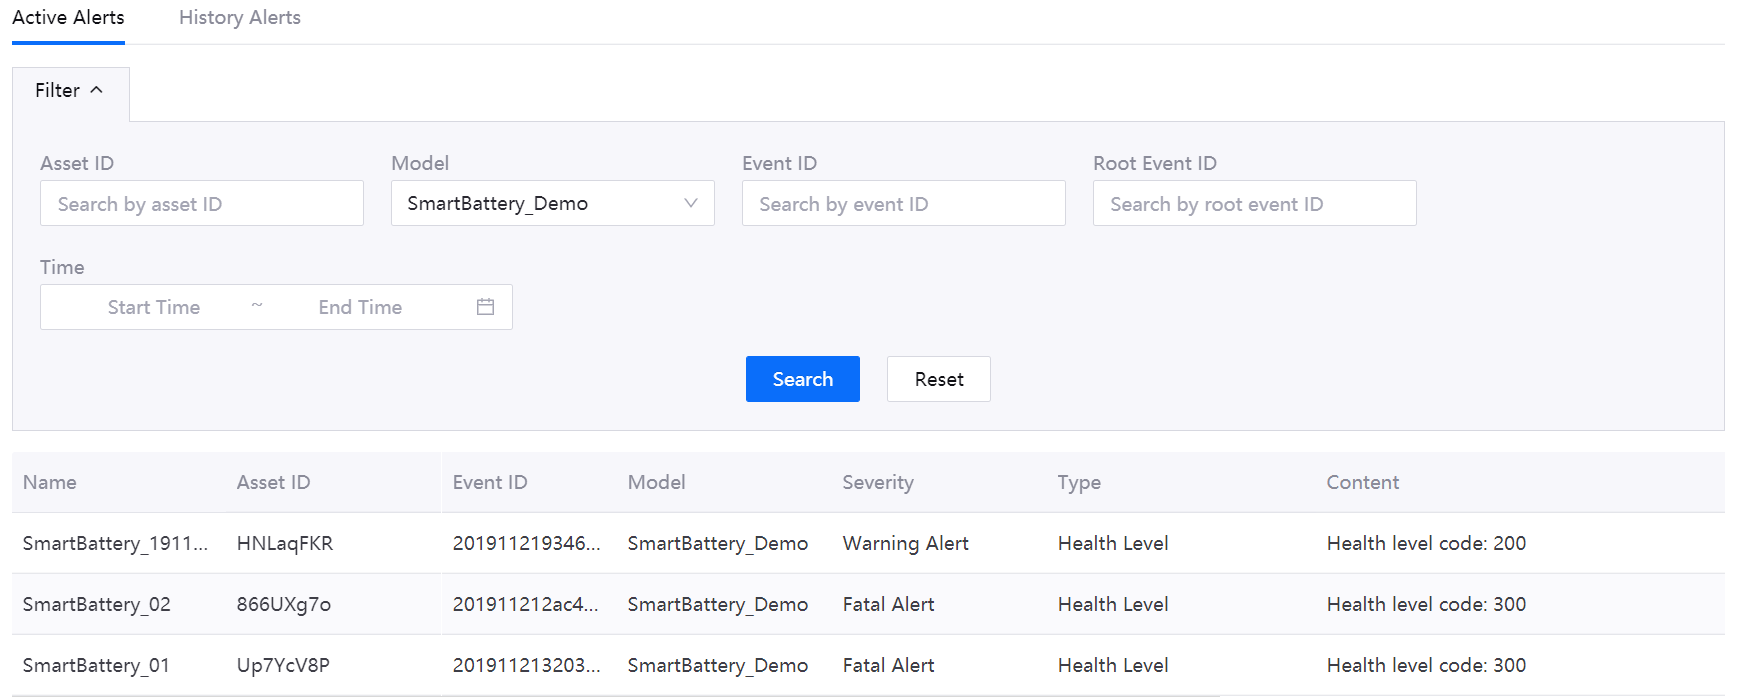
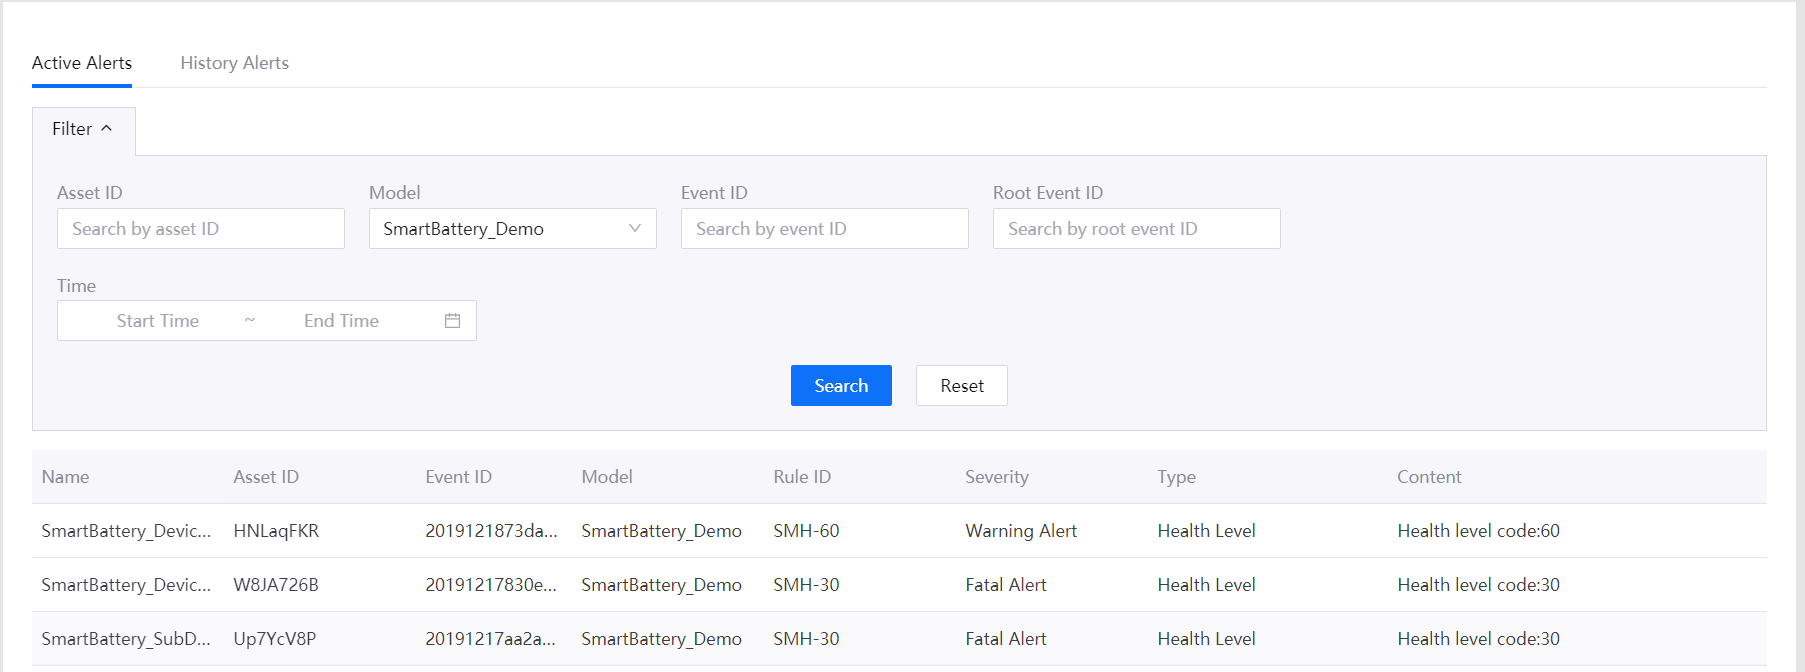
Update image

diff --git a/Day3_Data_Management/lab_tutorial/303-4_monitoring_alerts.md b/Day3_Data_Management/lab_tutorial/303-4_monitoring_alerts.md
@@ -10,9 +10,9 @@ In [Lab 3](303-3 calculating_health_level.md), we defined 3 health levels of the
 
 | Health Level Code | Alert Severity ID | Description                        |
 | ----------------- | ----------------- | ---------------------------------- |
-| 100               | Normal_Alert      | The battery is healthy             |
-| 200               | Warning_Alert     | The battery is unhealthy           |
-| 300               | Fatal_Alert       | The battery is extremely unhealthy |
+| 90                | Normal_Alert      | The battery is healthy             |
+| 60                | Warning_Alert     | The battery is unhealthy           |
+| 30                | Fatal_Alert       | The battery is extremely unhealthy |
 
 Take the following steps to create the alert severity:
 
@@ -84,7 +84,7 @@ Take the following steps to create alert triggering rule for the **Warning_Alert
 
    - **Rule ID**
 
-     Enter an ID for the alert rule, for example, `SMH-200`.
+     Enter an ID for the alert rule, for example, `SMH-60`.
 
    - **Select Model**
 
@@ -92,7 +92,7 @@ Take the following steps to create alert triggering rule for the **Warning_Alert
 
    - **Condition**
 
-     Specify the triggering condition for the alert and enter the corresponding value or value scope for the condition. Based on the business scenario, for the **Warning_Alert** severity level, the conditions are `health_level>=200` and `health_level<300`.
+     Specify the triggering condition for the alert and enter the corresponding value or value scope for the condition. Based on the business scenario, for the **Warning_Alert** severity level, the conditions are `health_level>=30` and `health_level<60`.
 
    - **Scope**
 
@@ -126,7 +126,7 @@ Take the following steps to create alert triggering rule for the **Fatal_Alert**
 
    - **Rule ID**
 
-     Enter an ID for the alert rule, for example, `SMH-300`.
+     Enter an ID for the alert rule, for example, `SMH-30`.
 
    - **Select Model**
 
@@ -134,7 +134,7 @@ Take the following steps to create alert triggering rule for the **Fatal_Alert**
 
    - **Condition**
 
-     Specify the triggering condition for the alert and enter the corresponding value or value scope for the condition. Based on the business scenario, for the **Fatal_Alert** severity level, the condition is `health_level>=300`.
+     Specify the triggering condition for the alert and enter the corresponding value or value scope for the condition. Based on the business scenario, for the **Fatal_Alert** severity level, the condition is `health_level<=30`.
 
    - **Scope**
 
@@ -184,10 +184,10 @@ Take the following steps to view the alert records for the battery health level:
 
 3. Click the **Search** button to query alert records. See the following example:
 
-   ![](media/data_quality_report.png)
+   ![](media/alert_records.png)
 
 4. Click the **History Alerts** tab and take the same steps to query history alert records of your battery device.
 
 ## Next Lab
 
-[Archiving Uploaded Data of the Battery](303-5 archiving_data.md)
+[Archiving Uploaded Data of the Battery](303-5_archiving_data.md)

diff --git a/Day3_Data_Management/lab_tutorial/303-6_generating_data_quality_report.md b/Day3_Data_Management/lab_tutorial/303-6_generating_data_quality_report.md
@@ -2,12 +2,12 @@
 
 EnOS Data Asset Management service supports evaluating data quality from multiple dimensions (completeness, accuracy, and timeliness of data). By tagging data records with quality index when processing stream data with StreamSets operators, we can generate data quality reports to effectively evaluate the quality of ingested data.
 
-As we know, the voltage of the battery will stay in a certain range without big changes during discharge. In this lab, we will update the stream data processing pipeline created in [Lab 3](303-3 calculating_health_level.md) to filter the voltage data of the battery by the **Off Limit Tagger** operator. Voltage data that exceeds the threshold will be tagged with quality index. With the quality tagging, we can generate data quality report to monitor the accuracy of the ingested voltage data .
+As we know, the voltage of the battery will stay in a certain range without big changes during discharge. In this lab, we will update the stream data processing pipeline created in [Lab 3](303-3_calculating_health_level.md) to filter the voltage data of the battery by the **Off Limit Tagger** operator. Voltage data that exceeds the threshold will be tagged with quality index. With the quality tagging, we can generate data quality report to monitor the accuracy of the ingested voltage data .
 
 
 ## Updating the StreamSets pipeline
 
-Take the following steps to update the StreamSets pipeline created in [Lab 3](303-3 calculating_health_level.md) to add the **Off Limit Tagger** operator:
+Take the following steps to update the StreamSets pipeline created in [Lab 3](303-3_calculating_health_level.md) to add the **Off Limit Tagger** operator:
 
 1. Select **Stream Data Processing > StreamSets** from the left navigation panel of EnOS Console.
 
@@ -62,7 +62,7 @@ See the following example:
 
 When the configuration of the operators is completed, we can now validate the configuration and start running the pipeline.
 
-For detailed steps, refer to the *Validating and running the pipeline* section in [Lab 3](303-3 calculating_health_level.md).
+For detailed steps, refer to the *Validating and running the pipeline* section in [Lab 3](303-3_calculating_health_level.md).
 
 ## Generating data quality report
 

diff --git a/Day3_Data_Management/lab_tutorial/303-5_archiving_data.md b/Day3_Data_Management/lab_tutorial/303-5_archiving_data.md
@@ -34,7 +34,7 @@ Complete the data storage configuration, including configuration of the storage 
 
 2. **Storage Resource**: Select the corresponding HDFS storage resource that has been requested through Resource Management for the organization.
 
-3. **Storage Path**: Specify the path where the archived files are located in the storage system and select the time partition format for the storage path root directory. The path must start and end with "/". For detailed information about time partition format, see [Storage Path Partition Parameters](https://support-cn5.envisioniot.com/docs/data-asset/en/latest/reference/archive_storage#storage-path-partition-parameters).
+3. **Storage Path**: Specify the path where the archived files are located in the storage system and select the time partition format for the storage path root directory. The path must start and end with "/". For detailed information about time partition format, see [Storage Path Partition Parameters](https://support.envisioniot.com/docs/data-asset/en/latest/reference/archive_storage#storage-path-partition-parameters).
 
 4. Specify generating the storage path by event time.
 
@@ -64,4 +64,4 @@ After completing the above configuration, click **OK** to submit the data archiv
 
 ## Next Lab
 
-[Generating Data Quality Report](303-6 generating_data_quality_report.md)
+[Generating Data Quality Report](303-6_generating_data_quality_report.md)

diff --git a/Day3_Data_Management/lab_tutorial/303-1_configuring_storage_policy.md b/Day3_Data_Management/lab_tutorial/303-1_configuring_storage_policy.md
@@ -16,7 +16,7 @@ In this lab, configure a storage policy for the following measuring points that 
 | health_level     | DI Data      | Output point of the stream processing job for analyzing the health level of the battery |
 | cycle_number     | Generic Data | Number of charge-discharge cycles that has happened on the battery                                 |
 
-For detailed description of the supported storage types, see [Configuring TSDB Storage](https://support-cn5.envisioniot.com/docs/data-asset/en/latest/configuring_tsdb_storage.html).
+For detailed description of the supported storage types, see [Configuring TSDB Storage](https://support.envisioniot.com/docs/data-asset/en/latest/configuring_tsdb_storage.html).
 
 ## Creating a storage policy group
 
@@ -76,5 +76,5 @@ For **Generic Data** storage policy, configure as follows:
 
 ## Next Lab
 
-[Calculating the Discharge Energy of the Battery](303-2 calculating_discharge_energy.md)
+[Calculating the Discharge Energy of the Battery](303-2_calculating_discharge_energy.md)
 

diff --git a/Day3_Data_Management/lab_tutorial/303-3_calculating_health_level.md b/Day3_Data_Management/lab_tutorial/303-3_calculating_health_level.md
@@ -31,7 +31,7 @@ The business scenario is as depicted in the following figure:
 
 Take the following steps to create a StreamSets pipeline:
 
-1. Download the StreamSets pipeline configuration template from https://support-cn5.envisioniot.com/docs/data-asset/en/latest/_static/streamsets_pipeline_demo.json (right click the link and save the `streamsets_pipeline_demo.json` file to a local directory).
+1. Download the StreamSets pipeline configuration template from https://support.envisioniot.com/docs/data-asset/en/latest/_static/streamsets_pipeline_demo.json (right click the link and save the `streamsets_pipeline_demo.json` file to a local directory).
 
 2. Log in EnOS Console, select **Stream Data Processing > StreamSets**, click the triangle beside the **Create New Pipeline** button, and select **Import Pipeline**.
 
@@ -219,5 +219,5 @@ See the following example of the queried data:
 
 ## Next Lab
 
-[Monitoring Health Level Alerts](303-4 monitoring_alerts.md)
+[Monitoring Health Level Alerts](303-4_monitoring_alerts.md)
 

diff --git a/Day3_Data_Management/lab_tutorial/303-2_calculating_discharge_energy.md b/Day3_Data_Management/lab_tutorial/303-2_calculating_discharge_energy.md
@@ -64,7 +64,7 @@ See the following example of the completed configuration:
 
 ![](media/stream_config.png)
 
-For more information about the *Multi-Point Merging* template, see [Configuring a Multi-Point Data Calculation Job](https://support-cn5.envisioniot.com/docs/data-asset/en/latest/howto/stream/configuring_multi_point_template.html).
+For more information about the *Multi-Point Merging* template, see [Configuring a Multi-Point Data Calculation Job](https://support.envisioniot.com/docs/data-asset/en/latest/howto/stream/configuring_multi_point_template.html).
 
 
 
@@ -113,4 +113,4 @@ See the following example of the queried data:
 
 ## Next Lab
 
-[Calculating the Health Level of the Battery](303-3 calculating_health_level.md)
+[Calculating the Health Level of the Battery](303-3_calculating_health_level.md)
